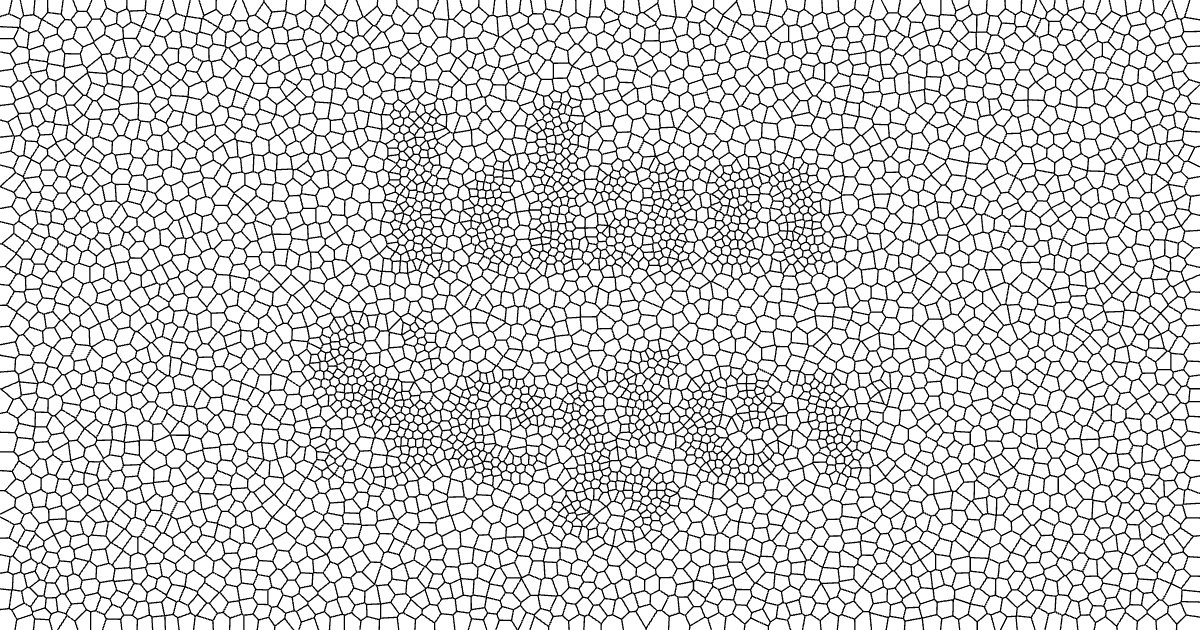
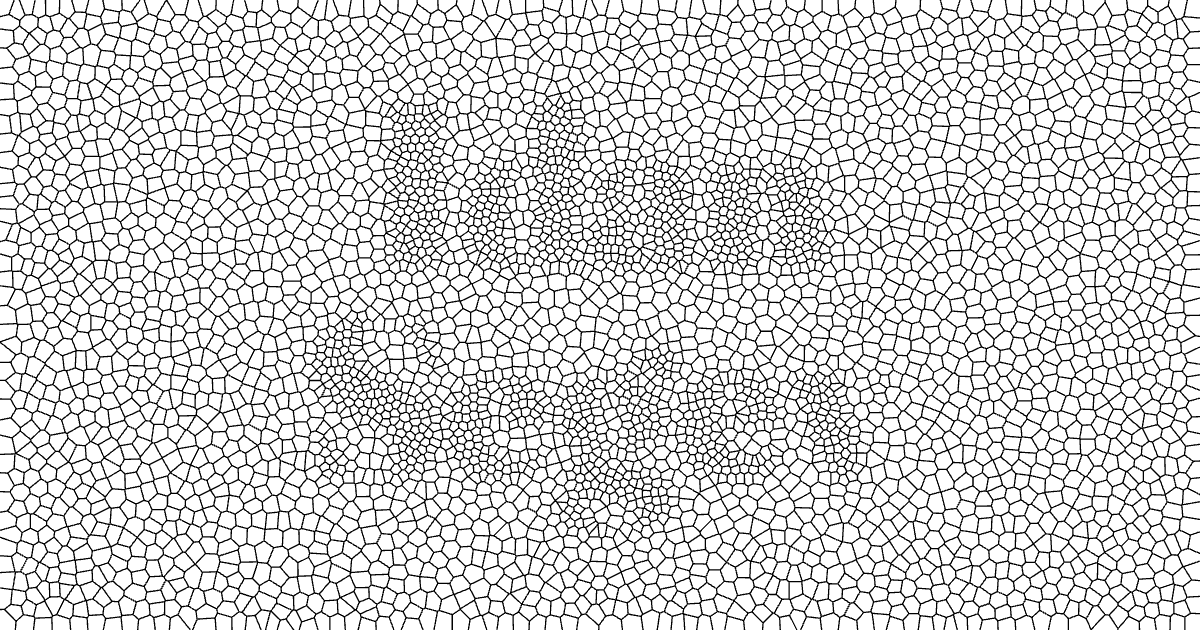
Crystallize melts back after 5 s; Marbled in Fan's composition (Anton); Splintered fills a phone
Crystallize: after 5 s at rest the cells merge a few at a time back to the coarse crackle (about 2 s) and the name grows again, instead of a cut. Marbled: capitals, every line sized to the full width, in Anton. Splintered: on a phone the name fills nearly the whole width.

diff --git a/src/posters/crystallize.js b/src/posters/crystallize.js
@@ -9,7 +9,7 @@
 // Gestures (src/gestures.js): drag or hover stirs the cells; tap knocks a coarse hole that crystallizes back; hold melts the
 // cells under the finger; double tap on the page starts over (a beat later, so a third tap can still mean reveal).
 // Three taps (reveal) switch to dots only: the page inverts and only the seeds are drawn, still alive to every gesture.
-// The crystallization on load is the intro; once settled and left alone for REBOOT_MS it starts over (Idan, 29 Oct 2026).
+// The crystallization on load is the intro; once settled and left alone for REBOOT_MS it melts back to coarse cells and grows again (Idan, 29 Oct 2026).
 // Under reduced motion the poster opens already settled and never restarts on its own.
 
 import { Delaunay } from '../vendor/d3-delaunay.es.js';
@@ -20,7 +20,8 @@ import { linesFor, lettersFor } from '../name.js';
 const FAMILY = 'Fraunces', WEIGHT = 900, NAME = 'Idan Segev';
 const DEF = { cells: 9000, out: 0.28, speed: 0.35, line: 1.3 };
 const DOT = 1;                                     // reveal: the radius of a seed, Idan's dot size from the test page
-const REBOOT_MS = 9000;                            // Idan (29 Oct 2026): once the name has condensed and nobody touches it, it starts over after this long
+const REBOOT_MS = 5000;                            // Idan (29 Oct 2026): once the name has condensed and nobody touches it, it starts over after this long
+const MELT = 0.03;                                // the share of cells that merge away each frame while it starts over (about 2 s back to coarse)
 
 export async function mount(stage) {
   const c = stage.canvas.getContext('2d');
@@ -97,7 +98,7 @@ export async function mount(stage) {
     dirty = true;
   }
   // One step: each seed moves to the centre of its samples; the heaviest cells split.
-  function step(fast) {
+  function step(fast, grow = true) {                               // grow: false relaxes the cells without splitting any (while they melt)
     acc.fill(0, 0, n * 3);
     let k = 0;
     for (let s = 0; s < smp.x.length; s++) { const x = smp.x[s], y = smp.y[s]; k = del.find(x, y, k); const o = 3 * k; acc[o] += x; acc[o + 1] += y; acc[o + 2] += 1; }
@@ -108,7 +109,7 @@ export async function mount(stage) {
       pts[2 * i] += dx; pts[2 * i + 1] += dy;
       mx = Math.max(mx, dx * dx + dy * dy);
     }
-    const budget = fast ? n : Math.max(6, Math.round(n * 0.05 * Math.min(1, P.speed)));
+    const budget = !grow ? 0 : fast ? n : Math.max(6, Math.round(n * 0.05 * Math.min(1, P.speed)));
     const heavy = [];
     for (let i = 0; i < n; i++) if (acc[3 * i + 2] > target * 1.6) heavy.push(i);
     heavy.sort((a, b) => acc[3 * b + 2] - acc[3 * a + 2]);
@@ -126,7 +127,7 @@ export async function mount(stage) {
 
   // ---------- input ----------
   const press = pressTracker();
-  let lastTap = -1, reform = 0, dirty = true, lastInput = performance.now(), restAt = 0;
+  let lastTap = -1, reform = 0, dirty = true, lastInput = performance.now(), restAt = 0, melting = false;
   function stir(x, y, dx, dy) {
     const R = 80, R2 = R * R;
     for (let i = 0; i < n; i++) {
@@ -151,7 +152,7 @@ export async function mount(stage) {
     remove((px, py) => (px - x) ** 2 + (py - y) ** 2 < 400 && rand() < 0.2);
     rebuild(); still = 0; dirty = true;
   }
-  offs.push(stage.on('down', (q, e) => { press.down(q, e.pointerId); lastInput = performance.now(); }));
+  offs.push(stage.on('down', (q, e) => { press.down(q, e.pointerId); lastInput = performance.now(); melting = false; }));
   offs.push(stage.on('move', (q, e) => {
     press.move(q, e.pointerId);
     if (q.type === 'mouse' || q.down) lastInput = performance.now();
@@ -207,11 +208,15 @@ export async function mount(stage) {
   offs.push(stage.on('resize', () => { clearTimeout(rt); rt = setTimeout(() => { if (alive && (stage.W !== W || stage.H !== H)) build(); else dirty = true; }, 150); }));
   offs.push(stage.frame(() => {
     if (press.holding) melt(stage.ptr.x, stage.ptr.y);
-    if (still <= 40) { step(false); dirty = true; restAt = 0; }
+    if (melting) {                                                  // starting over: cells merge a few at a time back to the coarse crackle, then the name grows again
+      const n0 = Math.round(160 * areaScale());
+      remove(() => rand() < MELT); if (n <= n0) melting = false;
+      rebuild(); step(false, false); still = 0; dirty = true; restAt = 0;
+    } else if (still <= 40) { step(false); dirty = true; restAt = 0; }
     else {                                                          // condensed: after REBOOT_MS of rest with no input it crackles back to coarse and grows again
       const now = performance.now();
       if (!restAt) restAt = now;
-      if (!stage.reduced && !stage.revealed && !press.active && now - Math.max(restAt, lastInput) > REBOOT_MS) { seedCoarse(); dirty = true; restAt = 0; }
+      if (!stage.reduced && !stage.revealed && !press.active && now - Math.max(restAt, lastInput) > REBOOT_MS) { melting = true; restAt = 0; }
     }
     if (dirty) { draw(); dirty = false; }
     rv.draw(performance.now());

diff --git a/src/posters/marbled.js b/src/posters/marbled.js
@@ -16,14 +16,14 @@ import { pressTracker, TAP, DOUBLE_MS, REFORM_DELAY_MS } from '../gestures.js';
 import { linesFor } from '../name.js';
 
 const MAXPTS = 90000;
-const FACE = 'italic 900 100px "Bitter", Georgia, serif';          // Still Water's face (Bitter), in italics
+const FACE = '400 100px "Anton", "Arial Narrow", Impact, sans-serif';   // Anton, tall and condensed: the combed ink runs through big strokes (Idan, 29 Oct 2026: Fan's composition in another face)
 let faceReady = null;
 function loadFace() {                                                 // the stylesheet, then the face: the trace waits for it
   if (!faceReady) faceReady = new Promise((r) => {
     const l = document.createElement('link'); l.rel = 'stylesheet';
-    l.href = 'https://fonts.googleapis.com/css2?family=Bitter:ital,wght@1,900&display=swap';
+    l.href = 'https://fonts.googleapis.com/css2?family=Anton&display=swap';
     l.onload = r; l.onerror = r; setTimeout(r, 2500); document.head.appendChild(l);
-  }).then(() => Promise.race([document.fonts.load('italic 900 100px "Bitter"'), new Promise((r) => setTimeout(r, 2500))])).catch(() => {});
+  }).then(() => Promise.race([document.fonts.load('400 100px "Anton"'), new Promise((r) => setTimeout(r, 2500))])).catch(() => {});
   return faceReady;
 }
 const STIR = { cell: 10, sigma: 32, kick: 14, cap: 10, max: 20, k: 85, c: 7 };   // hover stir: a springy field under the ink, so it is drawn displaced and settles back; the shape is never changed
@@ -47,12 +47,16 @@ export async function mount(stage) {
     await loadFace();
     const G = 1, gw = Math.ceil(W / G) + 2, gh = Math.ceil(H / G) + 2;
     const m = document.createElement('canvas'); m.width = gw; m.height = gh; const x = m.getContext('2d', { willReadFrequently: true });
-    const portrait = W / H < 0.8, lines = linesFor(stage, portrait ? ['Idan', 'Se', 'gev'] : ['Idan', 'Segev']);
-    x.font = FACE; const widest = Math.max(...lines.map((l) => x.measureText(l).width));
-    const size = Math.min(W * 0.82 / widest * 100, H * Math.min(portrait ? 0.22 : 0.33, 0.66 / lines.length)) / G;   // the cap per line shrinks when a visitor's name has more lines
-    x.font = FACE.replace('100px', size + 'px'); x.textAlign = 'center'; x.fillStyle = '#000';
-    const lead = size * 0.93, top = gh / 2 - (lines.length * lead) / 2 + size * 0.78 - gh * 0.02;
-    lines.forEach((l, i) => x.fillText(l, gw / 2, top + i * lead));
+    // Fan's composition: capitals, every line sized on its own to the full width, so the block is one justified slab
+    const portrait = W / H < 0.85, lines = linesFor(stage, portrait ? ['IDAN', 'SE', 'GEV'] : ['IDAN', 'SEGEV'], { upper: true });
+    const padX = Math.max(14, W * 0.045), maxW = W - padX * 2, gapL = H * 0.035, topPad = H * 0.04, avail = H - 120 - topPad;
+    x.font = FACE; const capK = (x.measureText('H').actualBoundingBoxAscent || 72) / 100;
+    const rows = lines.map((t) => { const size = maxW / (x.measureText(t).width || 1) * 100; return { t, size, cap: capK * size }; });
+    let total = rows.reduce((a, r) => a + r.cap, 0) + gapL * (rows.length - 1);
+    const k = Math.min(1, avail / total); total *= k;
+    let y = topPad + (avail - total) / 2;
+    x.textAlign = 'center'; x.fillStyle = '#000';
+    for (const r of rows) { const cap = r.cap * k; x.font = FACE.replace('100px', (r.size * k / G) + 'px'); x.fillText(r.t, gw / 2, y + cap); y += cap + gapL * k; }
     const d = x.getImageData(0, 0, gw, gh).data, av = (i, j) => (i < 0 || j < 0 || i >= gw || j >= gh ? 0 : d[(j * gw + i) * 4 + 3] / 255), on = (i, j) => (av(i, j) > 0.5 ? 1 : 0);
     const cross = (a, b) => (Math.abs(b - a) < 1e-4 ? 0.5 : Math.min(1, Math.max(0, (0.5 - a) / (b - a))));   // where the edge of the type crosses between two samples, from the antialiasing: a smooth outline, not a staircase
     const next = new Map(), pt = new Map();

diff --git a/src/posters/index.js b/src/posters/index.js
@@ -259,7 +259,7 @@ export const POSTERS = [
     hint: null,
     themes: { dark: 0.5, light: 0.5 },
     nameable: true,
-    face: { family: 'Bitter', weight: 900, italic: true },
+    face: { family: 'Anton', weight: 400, upper: true },
     load: () => import('./marbled.js'),
     prompt: "The name \"Idan Segev\" as ink floating on water, like Japanese suminagashi marbling, as black-and-white vector shapes on a canvas. Set it in a heavy Helvetica-style black (Arial Black) and trace its outline into closed loops of points and apply every move to those points so the ink stays sharp. A tap drops ink: push all the ink outward around the tap keeping its area (p' = c + (p - c) * sqrt(1 + r^2 / |p - c|^2)), then drop clear water into the middle so it lands as a ring. A drag combs: drag every point beside the stroke along it, less the farther away (an exponential falloff), and keep curves smooth by inserting a point wherever a stretch has opened a gap. A mouse moving over the ink without a button gently stirs it: draw the ink displaced by a springy field that the mouse pushes and that swings back and settles, never changing the shapes. Pressing and holding makes the ink give slightly under the finger. Nothing ever resets by itself.",
   },

diff --git a/src/posters/splintered.js b/src/posters/splintered.js
@@ -667,7 +667,8 @@ uniform vec3 uPl[16]; uniform int uN; uniform vec2 uHome;
   function placeCamera(shakeAmt = 0) {
     const fov = 2 * Math.atan(12 / P.lens) * 180 / Math.PI;
     camera.fov = fov; camera.aspect = W / H; camera.updateProjectionMatrix();
-    const tw = (textBox[2] - textBox[0]) / 0.78, th = (textBox[3] - textBox[1]) / 0.62;
+    const portrait = W / H < 0.8;                                         // a phone: the name fills nearly the whole width (Idan, 29 Oct 2026: it read too small)
+    const tw = (textBox[2] - textBox[0]) / (portrait ? 0.94 : 0.78), th = (textBox[3] - textBox[1]) / (portrait ? 0.7 : 0.62);
     const vt = Math.tan(fov * Math.PI / 360);
     camDist = Math.max(th / 2 / vt, tw / 2 / (vt * camera.aspect));
     target.set((textBox[0] + textBox[2]) / 2, (textBox[1] + textBox[3]) / 2, 0);
